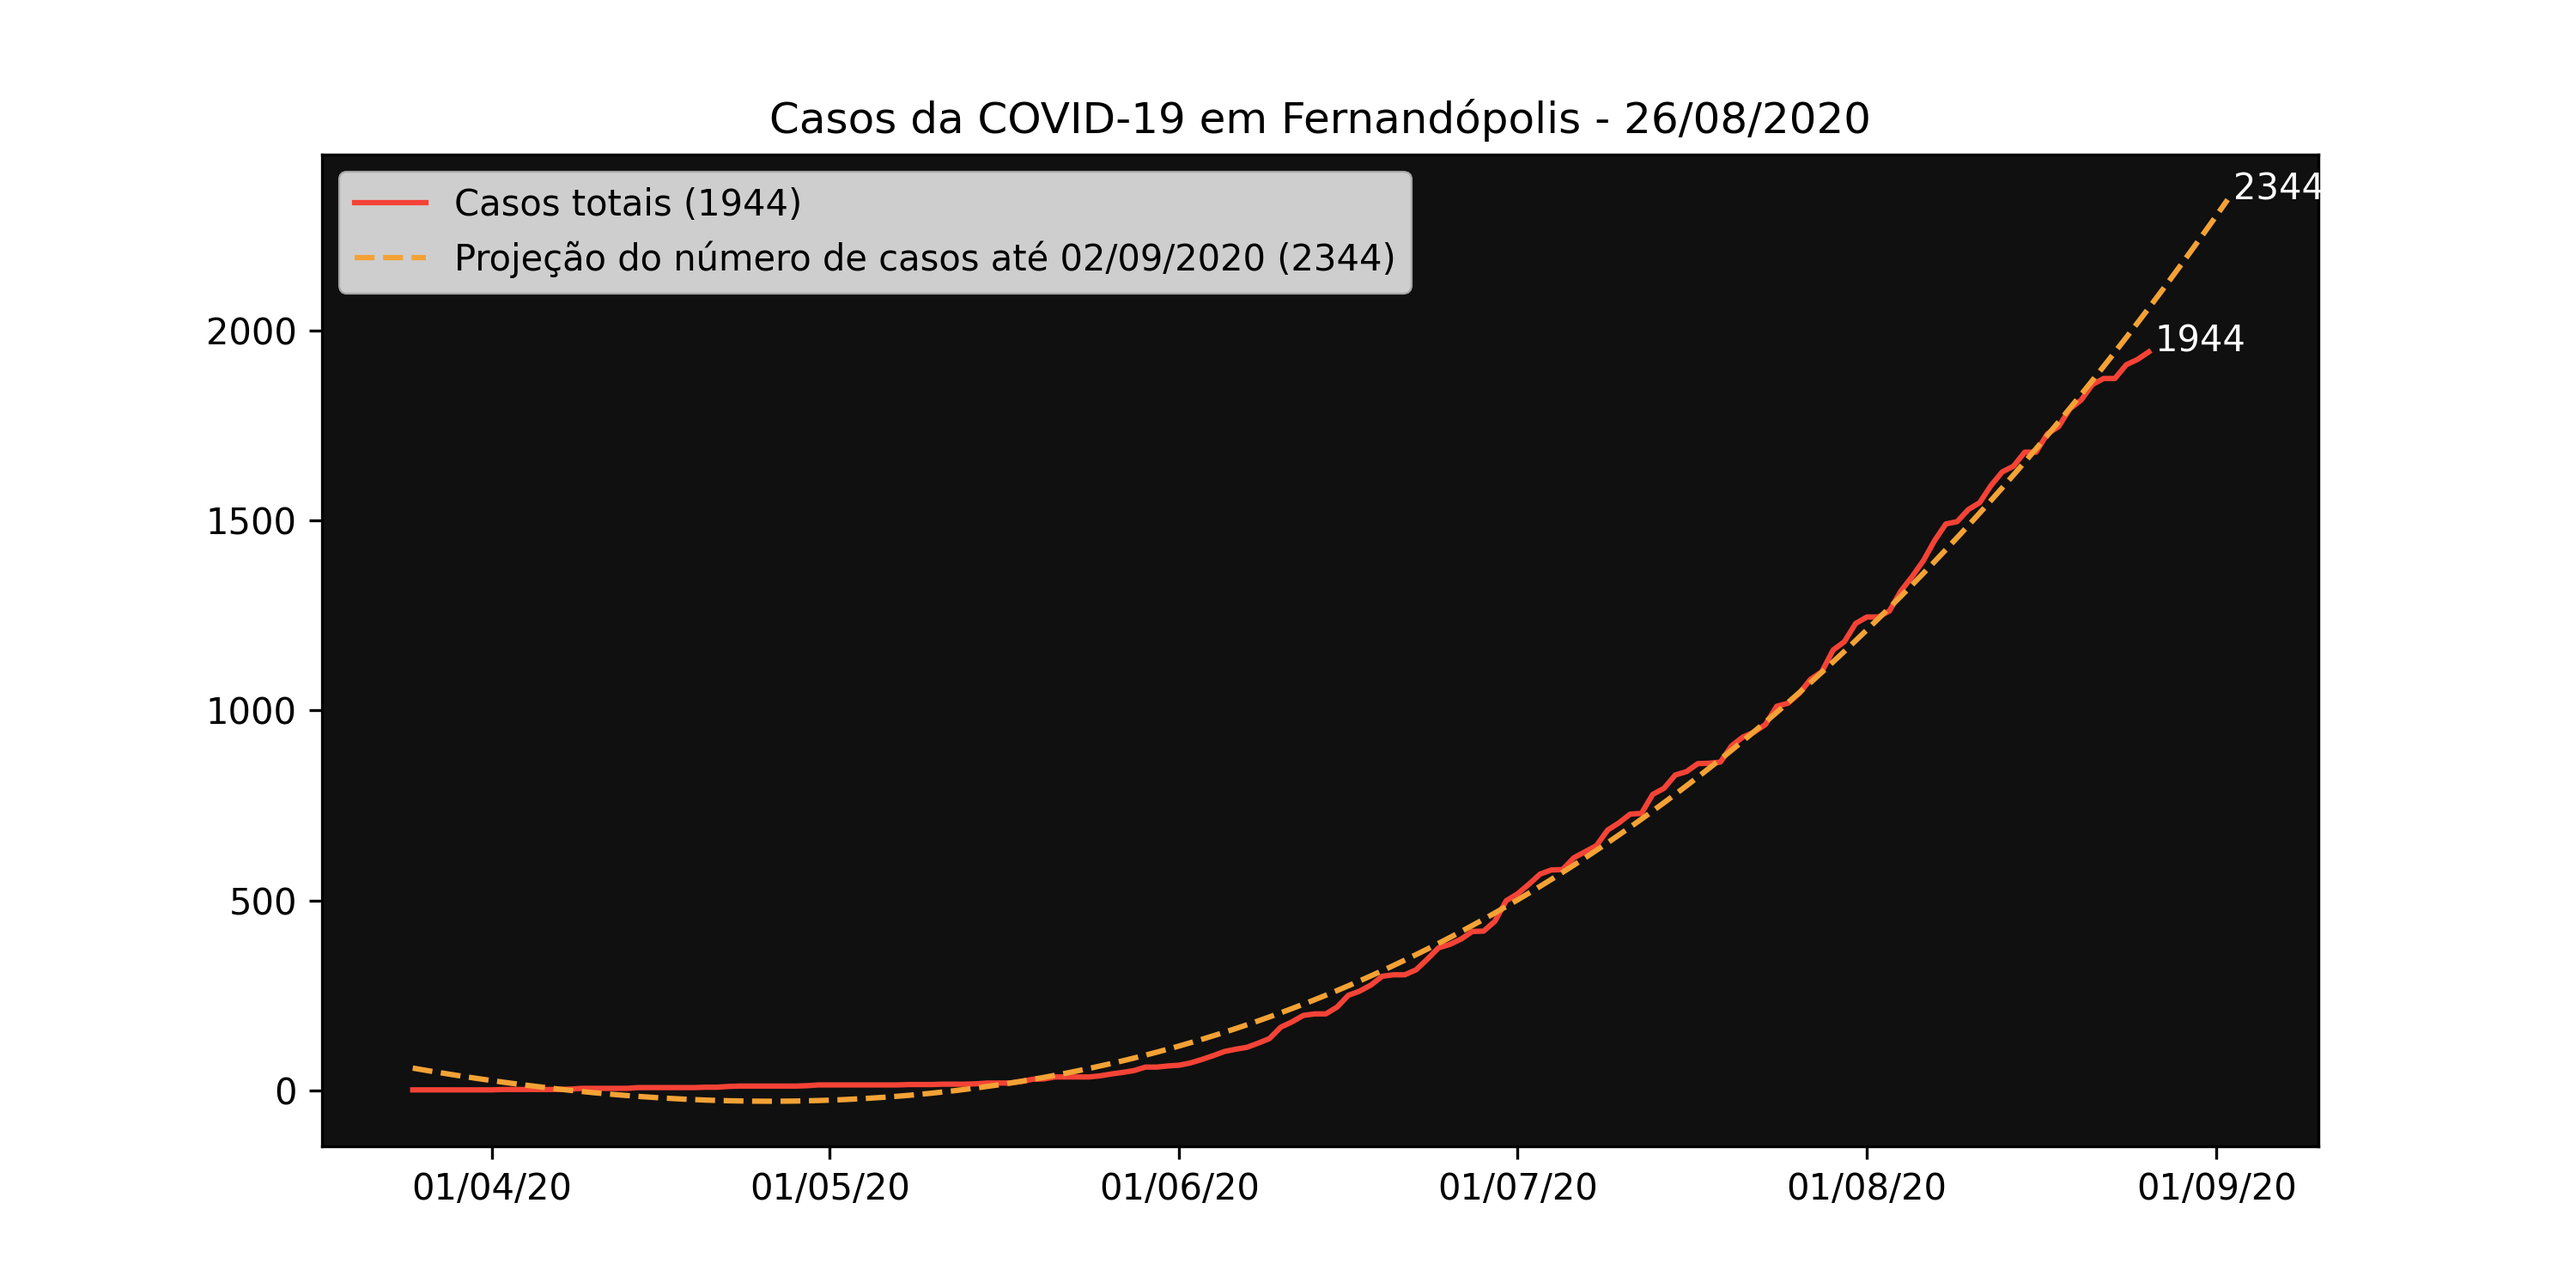
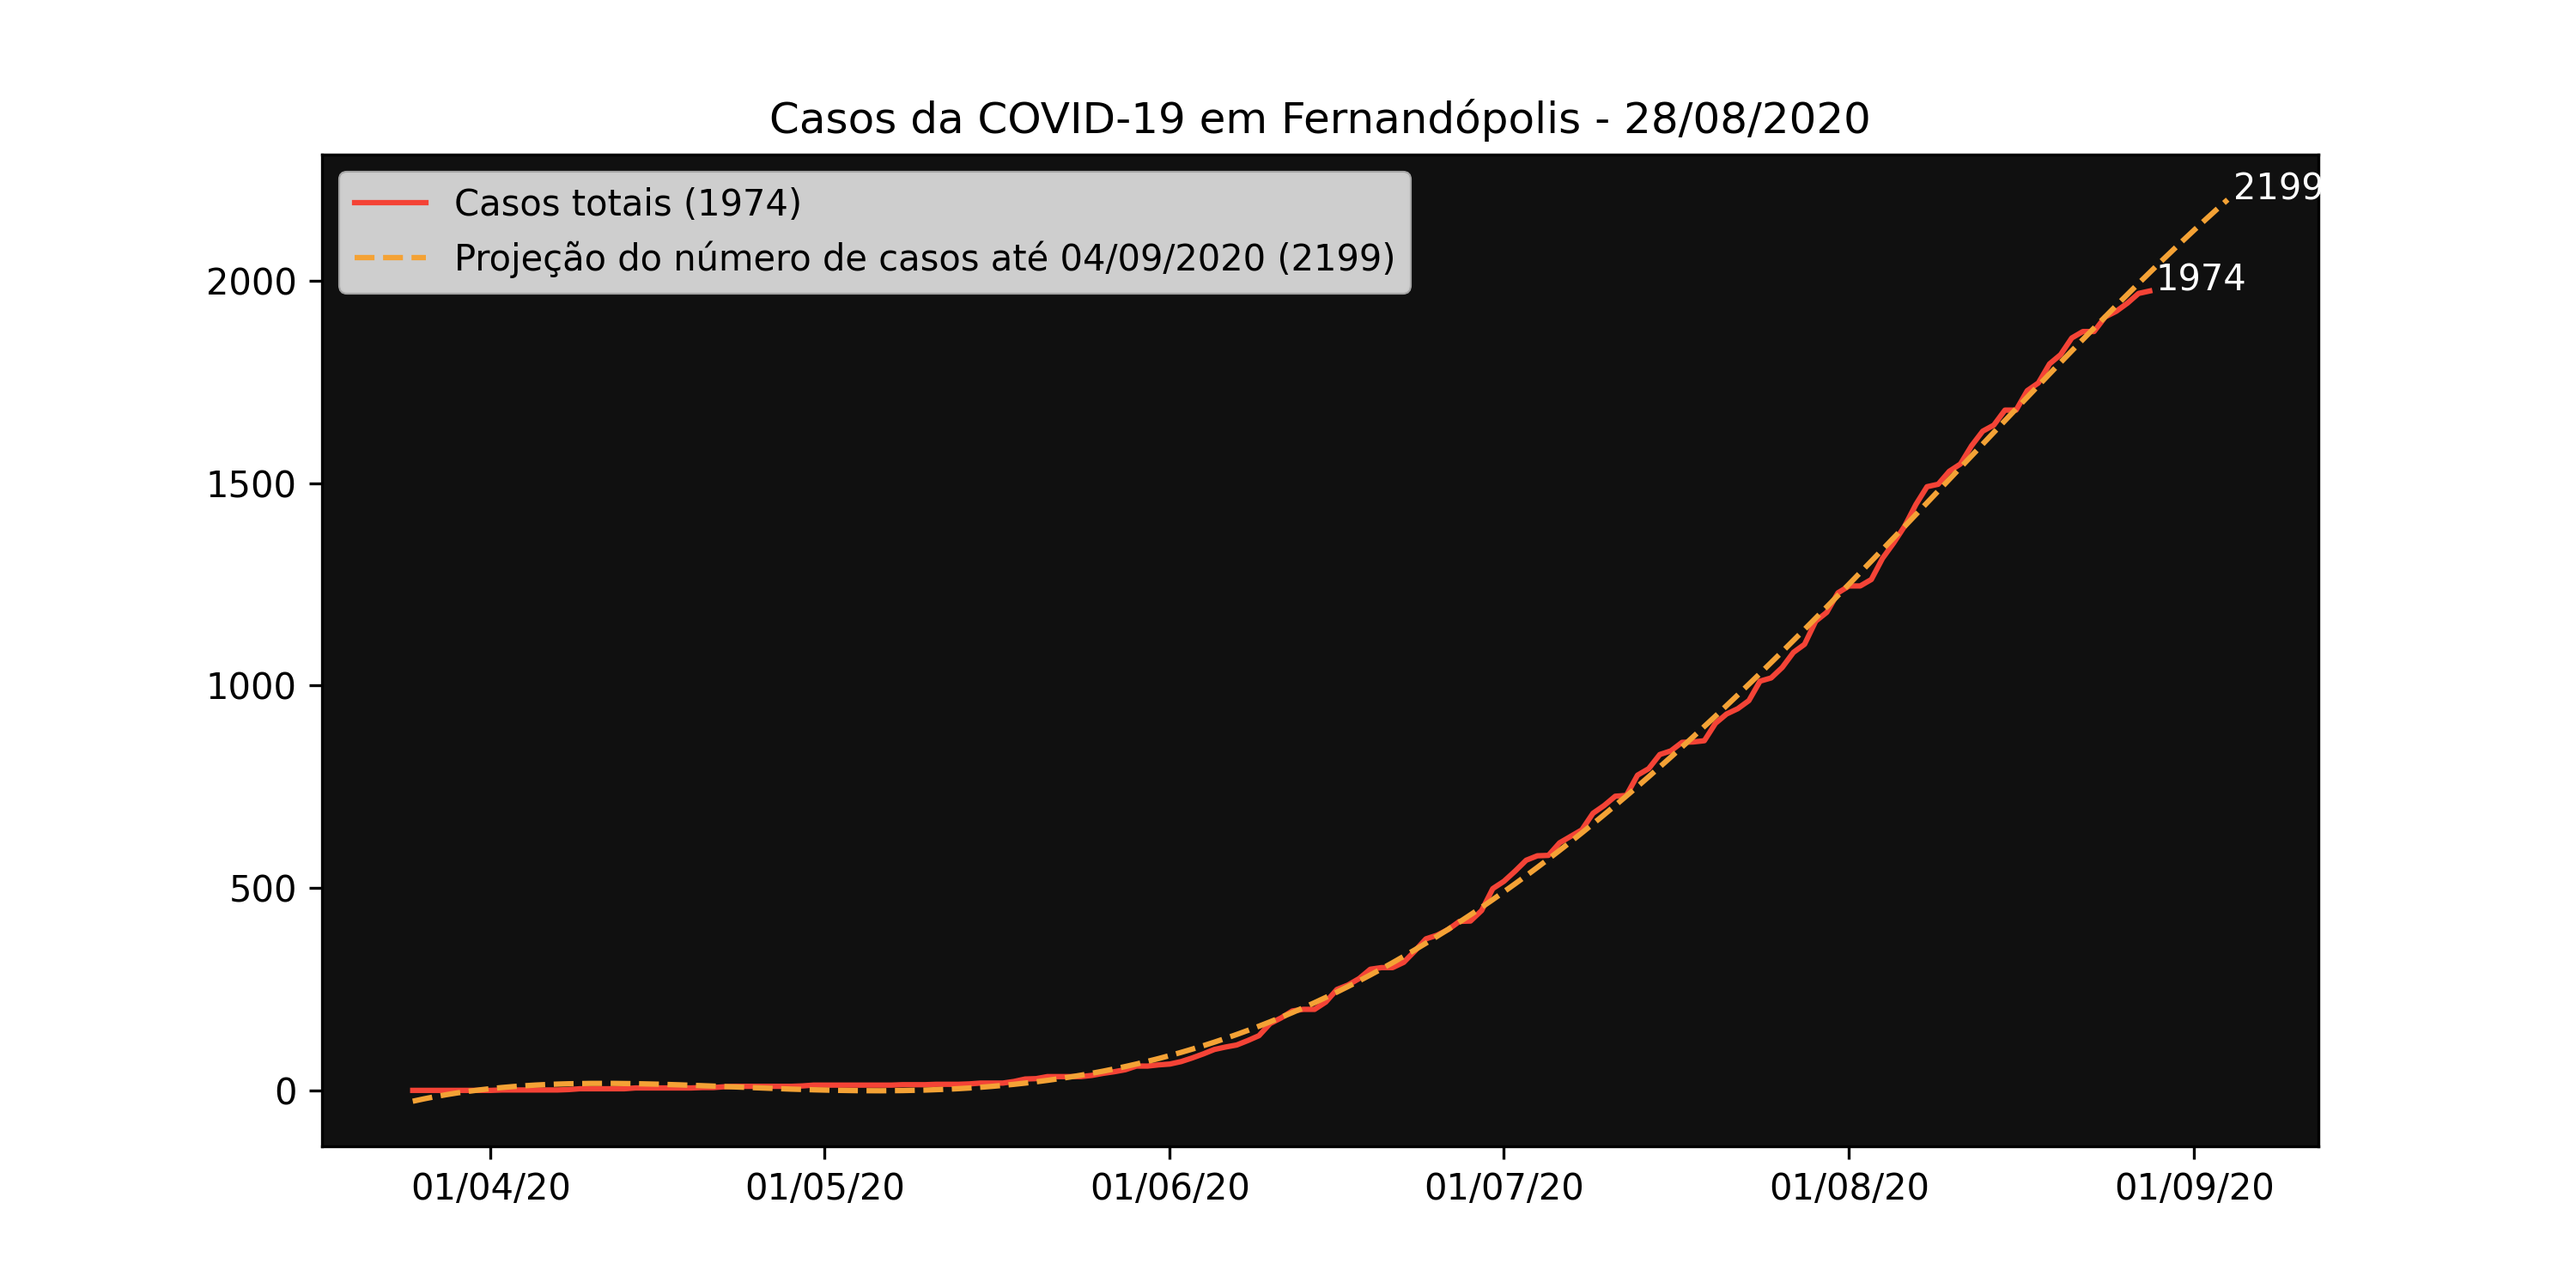
atualização sex 28 ago 2020 19:29:24 -03

diff --git a/chart-generator/main.py b/chart-generator/main.py
@@ -125,8 +125,8 @@ def line_chart(ds, dateFmt):
     fig.set_dpi(300)
 
     # exponential function
-    def func(x, a, b, c, d):
-        return a * np.power(x, 3) + b * np.power(x, 2) + c * x + d
+    def func(x, a, b, c, d, e):
+        return a * np.power(x, 4) + b * np.power(x, 3) + c * np.power(x, 2) + d * x + e
 
     # optimized parameters for exponential curve fitting
     optimizedParameters, _ = opt.curve_fit(
